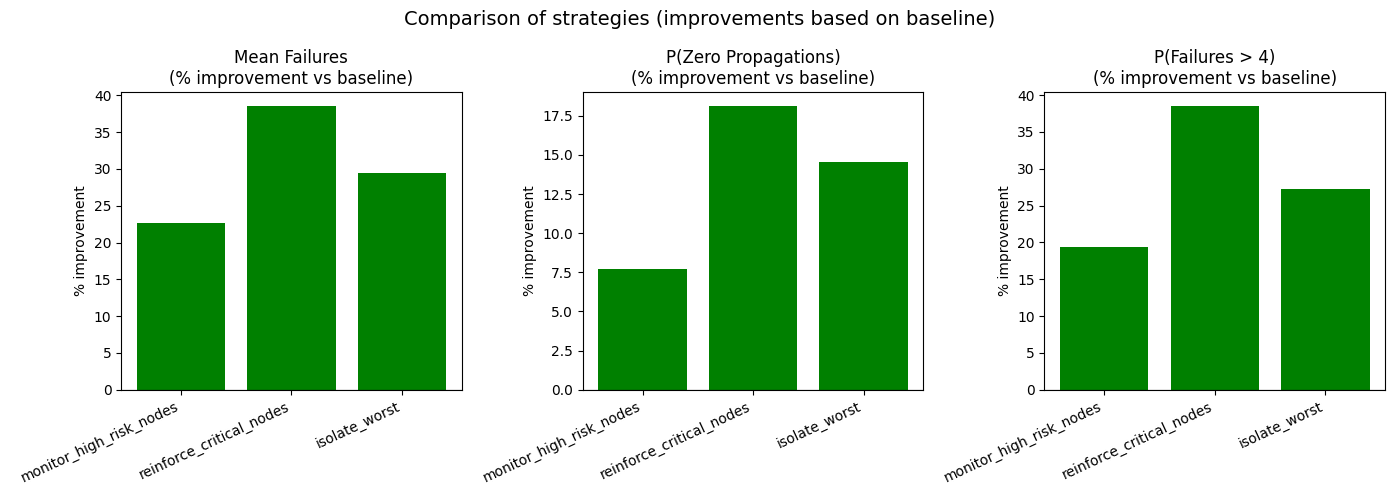
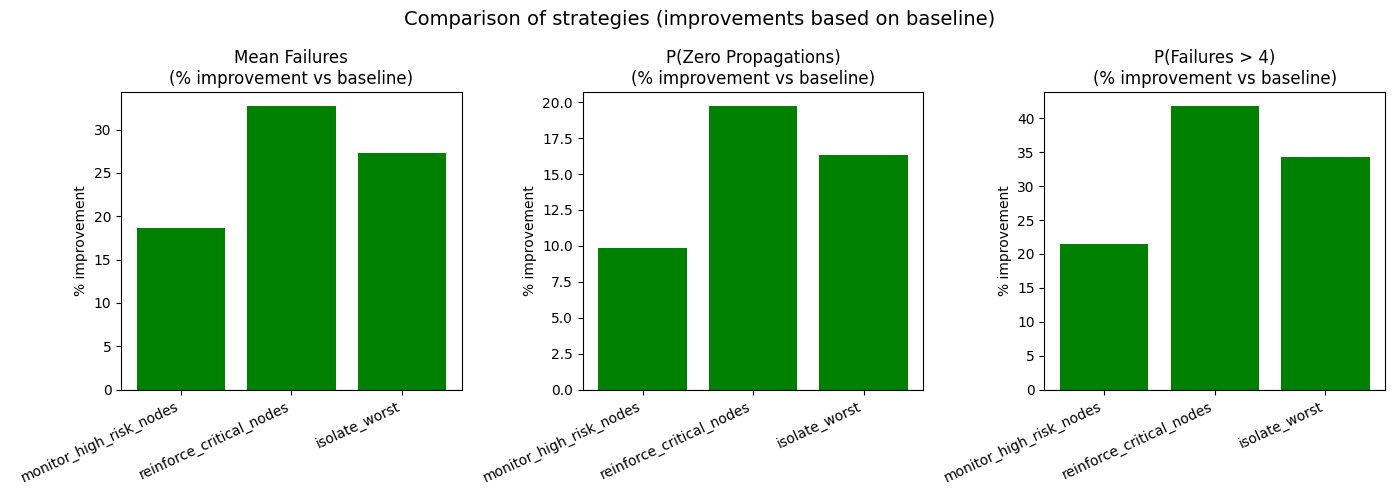
Fixing propagation matrix

diff --git a/supplementary.py b/supplementary.py
@@ -26,7 +26,9 @@ def create_propagation_matrix(edge_lookup, risk_score):
 
             source = risk_score["location"][row]
             target = risk_score["location"][column]
-            weight = np.abs(edge_lookup.get((source, target), 0))
+            weight = edge_lookup.get((source, target), 0)
+            if weight != 0:
+                weight = (weight + 1) / 2
             prop_matrix[row,column] = weight * risk_score["risk_score_model"][column]
     
     return prop_matrix
@@ -285,7 +287,6 @@ def apply_intervention(risk_score, prop_matrix, strategy, node_id, edge_lookup, 
             risk_copy.loc[risk_copy["location"] == target, "risk_score_model"] *= factor
 
         prop_matrix_copy = create_propagation_matrix(edge_lookup, risk_copy)
-        display_heatmap(prop_matrix_copy, risk_score, "MOI", display=True)
 
 
     elif strategy == "reinforce_edges":
